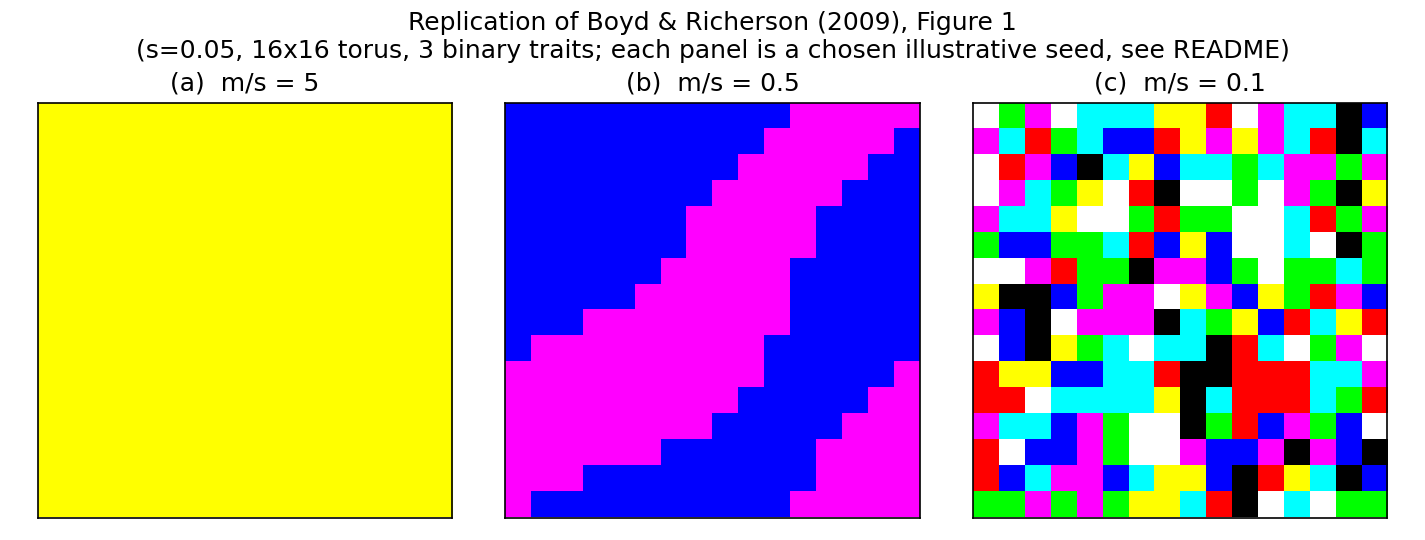
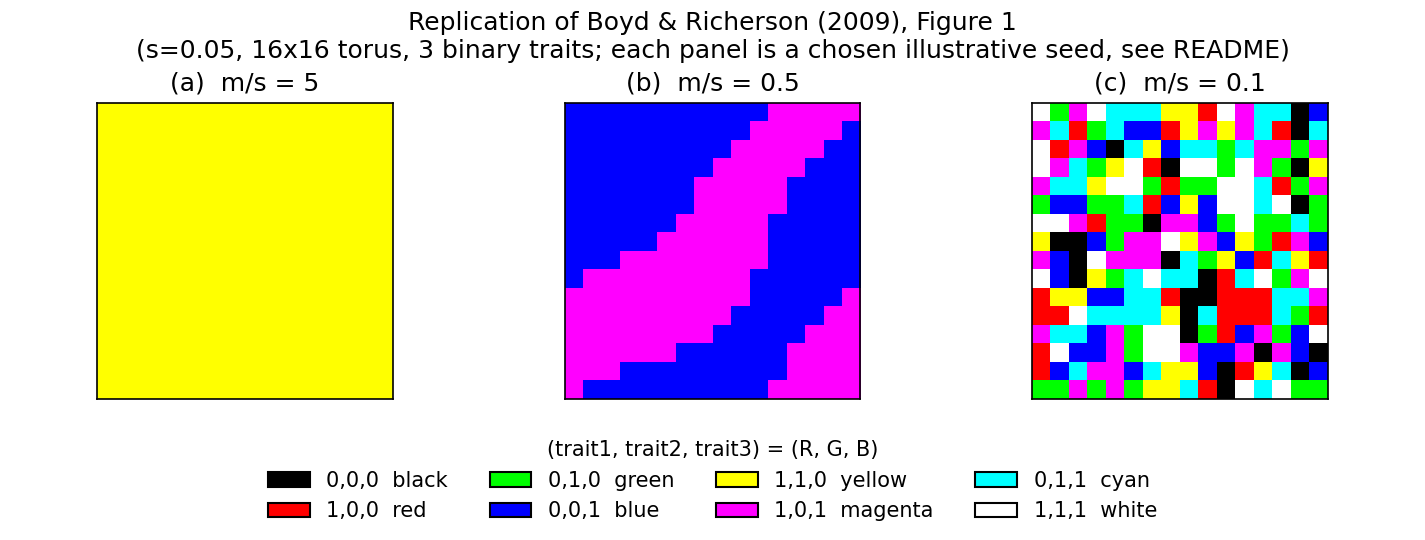
Add color legend to both figures
Adds legend.py (shared by generate_figure.py and generate_ratio_sweep.py):
an 8-swatch legend mapping (trait1, trait2, trait3) to the RGB-cube
corner color, so the figures are readable without cross-referencing the
README's color table.

diff --git a/legend.py b/legend.py
@@ -1,0 +1,39 @@
+"""Shared legend for the 8 RGB-cube corners used by both figure scripts.
+
+Each subpopulation carries 3 independent binary traits, mapped directly
+to the R, G, B channels (trait 1 -> red, trait 2 -> green, trait 3 ->
+blue), following the paper's own Figure 1 convention. A cell's color is
+therefore one of the 8 corners of the RGB cube -- which trait
+combination currently dominates that subpopulation -- with no
+combination privileged as "better" than any other.
+"""
+from __future__ import annotations
+
+from matplotlib.patches import Patch
+
+CORNERS = [
+    ((0, 0, 0), "0,0,0  black"),
+    ((1, 0, 0), "1,0,0  red"),
+    ((0, 1, 0), "0,1,0  green"),
+    ((0, 0, 1), "0,0,1  blue"),
+    ((1, 1, 0), "1,1,0  yellow"),
+    ((1, 0, 1), "1,0,1  magenta"),
+    ((0, 1, 1), "0,1,1  cyan"),
+    ((1, 1, 1), "1,1,1  white"),
+]
+
+
+def add_trait_legend(fig) -> None:
+    """Add an 8-swatch legend mapping (trait1, trait2, trait3) to color."""
+    patches = [
+        Patch(facecolor=color, edgecolor="black", label=label)
+        for color, label in CORNERS
+    ]
+    fig.legend(
+        handles=patches,
+        loc="lower center",
+        ncol=4,
+        title="(trait1, trait2, trait3) = (R, G, B)",
+        frameon=False,
+        bbox_to_anchor=(0.5, 0.0),
+    )

diff --git a/generate_figure.py b/generate_figure.py
@@ -57,6 +57,7 @@ from pathlib import Path
 
 import matplotlib.pyplot as plt
 
+from legend import add_trait_legend
 from model import residual, simulate
 
 S = 0.05
@@ -88,10 +89,11 @@ def main() -> None:
         f"(s={S}, 16x16 torus, 3 binary traits; each panel is a chosen "
         "illustrative seed, see README)"
     )
+    fig.tight_layout(rect=(0, 0.22, 1, 1))
+    add_trait_legend(fig)
     out_dir = Path(__file__).parent / "output"
     out_dir.mkdir(exist_ok=True)
     out_path = out_dir / "figure1_replication.png"
-    fig.tight_layout()
     fig.savefig(out_path, dpi=150)
     print(f"Saved {out_path}")
 

diff --git a/generate_ratio_sweep.py b/generate_ratio_sweep.py
@@ -18,6 +18,7 @@ from pathlib import Path
 
 import matplotlib.pyplot as plt
 
+from legend import add_trait_legend
 from model import residual, simulate
 
 S = 0.05
@@ -43,10 +44,11 @@ def main() -> None:
         f"(s={S}, seed={SEED}, 16x16 torus, 3 binary traits, "
         f"{GENERATIONS:,} generations)"
     )
+    fig.tight_layout(rect=(0, 0.12, 1, 1))
+    add_trait_legend(fig)
     out_dir = Path(__file__).parent / "output"
     out_dir.mkdir(exist_ok=True)
     out_path = out_dir / "ratio_sweep.png"
-    fig.tight_layout()
     fig.savefig(out_path, dpi=150)
     print(f"Saved {out_path}")
 
